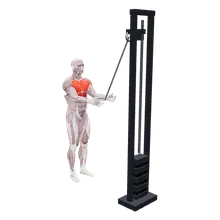
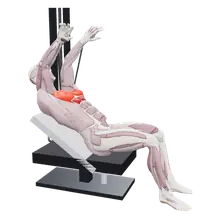
Fix animations that did not match the exercise name: standing band hip adduction (with band), seated band abduction, ball squeeze, standing/cable leg curl, machine pullover and crunch, incline cable fly, side-lying raise, Tate press, sleeper stretch, cable glute kickback, reverse curl
Claude-Session: https://claude.ai/code/session_01Ba3EpBx4JTD6GsUoFGjogk

diff --git a/coach-builder.html b/coach-builder.html
@@ -1352,6 +1352,7 @@ ZP.cpress=e=>{const n=e.en,up=/incline/i.test(n),dn=/decline/i.test(n);
   const p=up?[ZC([-20,190])]:dn?[ZC([-20,25])]:e.eq==="cb"?[ZC([-20,85])]:[ZC([-20,95])];
   return [zA(ZST,up?[94,100]:dn?[94,82]:[94,90],[-1,0.3],{pr:p}),zA(ZST,up?[128,60]:dn?[128,112]:[133,84],[0,1],{pr:p,label:up?"לחיצה קדימה ולמעלה":dn?"לחיצה קדימה ולמטה":"לחיצה קדימה"})];};
 ZP.fly=e=>{const n=e.en;
+  if(/incline cable fly/i.test(n)){const f=ZRAW_FLY(true);return f.map(x=>Object.assign({},x,{props3d:[...(x.props3d||[]),{cable:{from:[0,-(GY+3.5)+12,-70],end:["wrL","wrR"]}}],flat:x.flat?Object.assign({},x.flat,{pr:(x.flat.pr||[]).filter(q=>q.k!=="wt")}):x.flat}));}
   if(/cable|band|crossover/i.test(n)){const hi=/low[- ]to[- ]high/i.test(n)?[170,195]:[170,15];
     const s=/low[- ]to[- ]high/i.test(n)?[[108,128],[128,70]]:/high-to-low/i.test(n)?[[120,40],[110,124]]:[[124,52],[126,100]];
     return [zA(ZST,s[0],[-1,0],{pr:[ZC(hi)]}),zA(ZST,s[1],[-1,0],{pr:[ZC(hi)],label:"ידיים נפגשות"})];}
@@ -1751,7 +1752,17 @@ function ZRAW_CABLEHIP(add){const k0=zkeys(ZST),G=-(GY+3.5);
   const pr=[{cable:{from:anchor,end:"ftL"}}];
   const f=(K,lab)=>({kind:"raw",K,g:true,props3d:pr,az:1.3,flat:X(ZST,{label:lab})});
   return add?[f(out,"רגל בצד"),f(inn,"הרגל חוצה פנימה")]:[f(inn,"רגליים יחד"),f(out,"הרגל לצד")];}
-ZP.cablehip=e=>ZRAW_CABLEHIP(/adduction/i.test(e.en));
+ZP.cablehip=e=>{const f=ZRAW_CABLEHIP(/adduction/i.test(e.en));
+  if(e.eq==="bd") f.forEach(x=>{x.props3d=x.props3d.map(q=>q.cable?{cable:Object.assign({},q.cable,{band:true})}:q);});   // a band tied low instead of the cable
+  return f;};
+// standing leg curl: hands on the machine / column, the working knee bends and the heel comes up behind
+ZP.standcurl=e=>{const pr=e.eq==="cb"?[ZC([150,196],"F")]:[{k:"pole",x:132,y1:70,y2:200}];
+  return [zA(ZST,[128,112],[0,1],{pr}),zA(ZST,[128,112],[0,1],{pr,L2:[50,162],kb2:[0,1],label:"עקב לישבן"})];};
+ZP.seatpullover=e=>[ZSEAT({A:[100,46],eb:[0,1],label:"ידיים למעלה"}),ZSEAT({A:[96,150],eb:[0,1],label:"ידיים למטה"})];
+ZP.seatcrunch=e=>[ZSEAT({A:[96,110],eb:[0,1]}),ZSEAT({t:-58,A:[110,130],eb:[0,1],label:"כפיפת גו"})];
+ZP.ballsq=e=>[X(GB_D,{pr:[ZW("K")]}),X(GB_D,{pr:[ZW("K")],label:"לחיצה של הברכיים"})];
+ZP.sidelat=e=>[{H:[100,186],t:180,th:0,sh:0,A:[100,160],g:1,pr:[box(40,190,130,8),ZW()]},{H:[100,186],t:180,th:0,sh:0,A:[150,130],g:1,pr:[box(40,190,130,8),ZW()],label:"יד עולה"}];
+ZP.sleeper=e=>[{H:[100,190],t:180,th:0,sh:0,A:[136,170],eb:[0,1],g:1,label:"אמה נדחפת לרצפה"}];
 // standing cable hip extension: facing a low pulley, hands on the column, trunk leaning a little forward; the working
 // leg (model's left) stays straight and swings from slightly in front of the body to behind it, the cable on the ankle
 ZP.cablehipext=e=>{const b=X(ZST,{t:-80}),k0=zkeys(b),G=-(GY+3.5),hp=k0.hpL,L=Math.hypot(hp[0]-k0.ftL[0],hp[1]-k0.ftL[1]);
@@ -1800,6 +1811,7 @@ ZP.windmill=e=>{const b={H:[64,130],t:-35,L:[82,200],kb:[1,0],g:1},s=zS(b);
 ZP.mob=e=>{const n=e.en;
   const lab=(f,l)=>[X(f,{label:l||"החזקה"})];
   // newer stretches / drills, mapped to poses that show the real position
+  if(/sleeper/i.test(n)) return ZP.sleeper(e);
   if(/hip flexor stretch kneeling/i.test(n)) return lab(X(LUNGE_B,{H:[66,152],t:-94}));
   if(/butterfly/i.test(n)) return lab({H:[80,194],t:-90,L:[120,198],kb:[1,-1],L2:[118,198],kb2:[1,-1],A:[110,194],g:1});
   if(/seated hamstring/i.test(n)) return lab({H:[60,194],t:-30,L:[150,198],kb:[1,0],A:[146,192],g:1});
@@ -1857,6 +1869,10 @@ ZP.mob=e=>{const n=e.en;
 
 // ---- exercise → pattern ----
 const ZRULES=[
+ [/band hip adduction/i,"cablehip"],[/seated hip abduction/i,"adducmach"],[/ball squeeze/i,"ballsq"],
+ [/standing leg curl|cable leg curl/i,"standcurl"],[/machine pullover/i,"seatpullover"],[/machine crunch/i,"seatcrunch"],
+ [/side-lying lateral raise/i,"sidelat"],[/external rotation 90-90/i,"yraise"],[/tate press/i,"bench"],[/^reverse curl$/i,"curl"],
+ [/sleeper stretch/i,"sleeper"],[/cable glute kickback/i,"cablehipext"],
  [/stair/i,"stairs"],
  [/iron cross/i,"ironcross"],[/halo/i,"halo"],[/squat row/i,"thruster"],[/windmill/i,"windmill"],[/triceps kickback/i,"tri"],[/scapular push/i,"rot"],[/side plank/i,"plank"],[/landmine rotation|woodchop|wood chop|side bend/i,"chop"],
  [/plank jack|jumping jack|battle rope/i,"cardio"],[/jump rope|double unders/i,"run"],[/snatch(?!-grip)/i,"snatch"],[/high pull/i,"highpull"],
@@ -2634,6 +2650,7 @@ function build(host,frames,opt){opt=opt||{};
       const front=/front squat|zercher/i.test(opt.en||"");
       a.position.copy(sh).addScaledVector(up,front&&/zercher/i.test(opt.en)?-16:2).addScaledVector(fwd,front?9:-7);aim(a,lat);return;}
     if(where==="H"){a.position.copy(bonePos("thighL").add(bonePos("thighR")).multiplyScalar(0.5)).addScaledVector(fwd,13);aim(a,lat);return;}
+    if(KIND==="swb"&&/squeeze/i.test(opt.en||"")){a.position.set(...w);a.scale.setScalar(0.4);return;}
     if(KIND==="swb"&&!/wall squat/i.test(opt.en||"")){a.position.set(w[0],Math.max(w[1]-30,-(ILLV.GY+3.5)+30),w[2]);a.scale.setScalar(30/35);return;}   // ball under the feet
     if(where!=="W"){a.position.set(...w);aim(a,lat);return;}
     const gL=gripPoint(Mo,"L"),gR=gripPoint(Mo,"R"),dist=gL.p.distanceTo(gR.p),mid=gL.p.clone().add(gR.p).multiplyScalar(0.5);
@@ -2767,9 +2784,10 @@ function build(host,frames,opt){opt=opt||{};
     for(const q of f0.props3d||[]) if(q.cable){const a=q.cable.from;
       // pulley column beside the body, the cable from its low pulley to the cuff
       // (a high pulley: the column runs from the floor to just above it)
-      once(["tower",a[0],a[1]],()=>cableTower(a[0]-(a[2]?14:0),a[1],1,a[2]||0));
+      if(!q.cable.band) once(["tower",a[0],a[1]],()=>cableTower(a[0]-(a[2]?14:0),a[1],1,a[2]||0));
+      else staticCyl([a[0],-(GY+3.5),a[2]],[a[0],a[1]+10,a[2]],3);
       // a rope: one strand to each hand
-      for(const end of [].concat(q.cable.end)) dyn.push({cable:end,from:V(a),m:new T.Mesh(cyl,mEq),cuff:new T.Mesh(tor,mAcc)});}
+      for(const end of [].concat(q.cable.end)) dyn.push({cable:end,from:V(a),m:new T.Mesh(cyl,q.cable.band?mBand:mCableS),cuff:new T.Mesh(tor,mAcc),thick:q.cable.band?1.3:0.6});}
   } else if(f0.kind==="front"){const J=f0.J;
     if(J.eq==="bar"){const x1=Math.min(-75,J.hL[0]-15),x2=Math.max(75,J.hR[0]+15);staticCyl([x1,-J.by,0],[x2,-J.by,0],2.6);}
     else for(const s of ["L","R"]) dyn.push({ring:new T.Mesh(tor,mEq),strap:new T.Mesh(cyl,mEq),j:"wr"+s,len:60,axis:"z"});
@@ -2824,7 +2842,7 @@ function build(host,frames,opt){opt=opt||{};
       if(d.cable){// ends at the cuff just above the ankle: on the model's ankle when it is shown
         let e=V(k[d.cable]);const lim=d.cable.slice(0,2)==="ft"?"foot":"hand";
         if(Mo&&Mo.side){const w=new T.Vector3();Mo.bones[lim+Mo.side[d.cable.slice(-1)]].getWorldPosition(w);e=w.add(new T.Vector3(0,lim==="foot"?3:0,0));}
-        place(d.m,d.from,e,0.7);d.cuff.position.copy(e);d.cuff.scale.setScalar(0.75);d.cuff.visible=lim==="foot";
+        place(d.m,d.from,e,d.thick||0.7);d.cuff.position.copy(e);d.cuff.scale.setScalar(0.75);d.cuff.visible=lim==="foot";
         d.cuff.quaternion.setFromUnitVectors(new T.Vector3(0,0,1),new T.Vector3(0,1,0));continue;}
       if(d.ring){const w=k[d.j];
         if(Mo&&Mo.side&&d.j.startsWith("wr")){
@@ -4468,7 +4486,7 @@ document.addEventListener("focusout", ev => { const el = ev.target; if (el.datas
 renderAll();
 // always run the newest version: when the app is opened or comes back to the screen, check the site for a newer
 // copy (bypassing the cache) and reload into it. APPV changes with every update.
-const APPV = "20261128011220";
+const APPV = "20261128012634";
 async function checkUpdate(){ try { const r = await fetch(location.pathname + "?u=" + Date.now(), {cache:"no-store"}); if (!r.ok) return;
   const m = (await r.text()).match(/const APPV = "([^"]+)"/); if (!m || m[1] === APPV || document.querySelector("input:focus,textarea:focus")) return;
   // load the new copy by its own address (so no cached page comes back), and only try once per version
